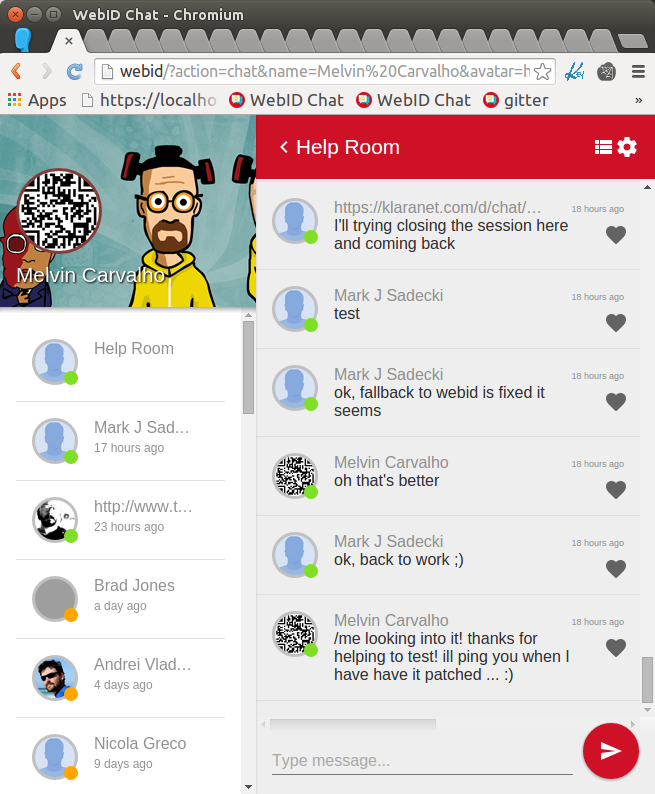
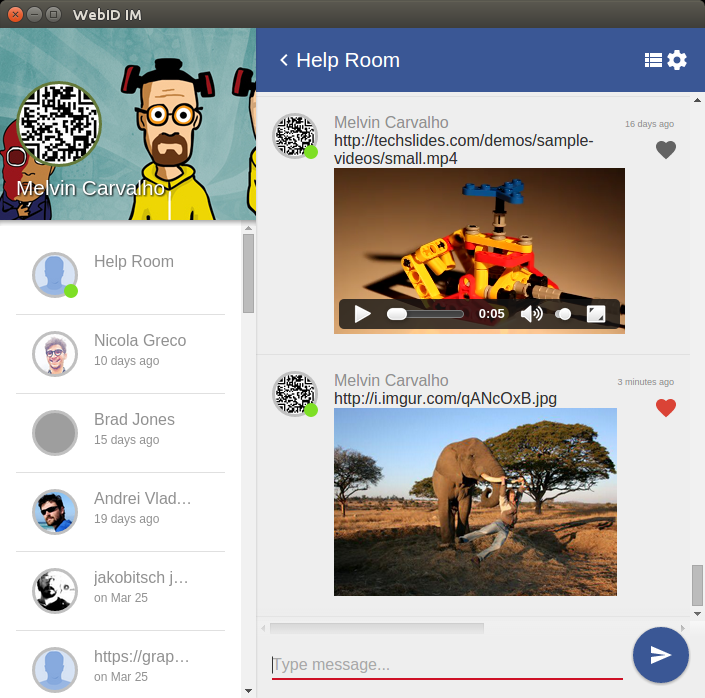
improve media

diff --git a/x-chat-list.html b/x-chat-list.html
@@ -1,11 +1,3 @@
-<!--
-A single user list with a username, avatar, and desc.
-
-##### Example
-
-<x-chat-list avatar="url" username="name" message="hello" status="online" timestamp="1420145273945"></x-chat-list>
-
--->
 <script src="bower_components/time-elements/time-elements.js"></script>
 <polymer-element name="x-chat-list" attributes="uri webid audio video img avatar viewer color like username text status timestamp">
   <template>
@@ -61,7 +53,7 @@ A single user list with a username, avatar, and desc.
     color: #6D84B4;
     font-size: 0.75em;
   }
-  .img {
+  .media {
     max-height: 800px;
     max-width: 100%;
   }
@@ -111,7 +103,7 @@ A single user list with a username, avatar, and desc.
     color: #636363;
   }
   :host([like]) core-icon-button {
-  color: #da4336;
+    color: #da4336;
   }
 
   </style>
@@ -126,17 +118,17 @@ A single user list with a username, avatar, and desc.
       <core-icon-button
       id="favicon"
       icon="favorite"
-       on-tap="{{handleLike}}">
-      </core-icon-button>
-      <template if="{{img}}">
-        <img class="img" src="{{img}}"/>
-      </template>
-      <template if="{{video}}">
-        <video controls src="{{video}}"></video>
-      </template>
-      <template if="{{audio}}">
-        <audio controls src="{{audio}}"></audio>
-      </template>
+      on-tap="{{handleLike}}">
+    </core-icon-button>
+    <template if="{{img}}">
+      <img class="media" src="{{img}}"/>
+    </template>
+    <template if="{{video}}">
+      <video class="media" controls src="{{video}}"></video>
+    </template>
+    <template if="{{audio}}">
+      <audio class="media" controls src="{{audio}}"></audio>
+    </template>
   </div>
   <div><a class="timestamp" target="_blank" href="{{uri}}"><time class="timestamp" is="relative-time" datetime="{{timestamp}}"></time></a></div>
 </section>
@@ -157,6 +149,7 @@ Polymer('x-chat-list', {
   ready: function() {
 
   },
+
   handleLike: function() {
     if (!this.viewer) return;
     console.log(' like : ' + this.like);
@@ -180,8 +173,5 @@ Polymer('x-chat-list', {
 
   }
 });
-
-
-
 </script>
 </polymer-element>

diff --git a/paper/index.html b/paper/index.html
@@ -207,7 +207,7 @@ xml:lang="en" lang="en">
       <section id="implementation" about="http://webid.im/paper/" rel="dcterms:hasPart" resource="[this:#implementation]">
         <h2 about="[this:#implementation]" property="dcterms:title">Implementation</h2>
         <div about="[this:#implementation]" property="dcterms:description" typeof="deo:Results">
-          <p>TBA</p>
+          <p>An implementation of this work is available on <a href="https://github.com/melvincarvalho/webid.im">github</a> as free software under the MIT license.</p>
         </div>
 
         <figure id="screenshot" about="[this:#screenshot]" typeof="doco:FigureBox" rel="dcterms:hasPart">
